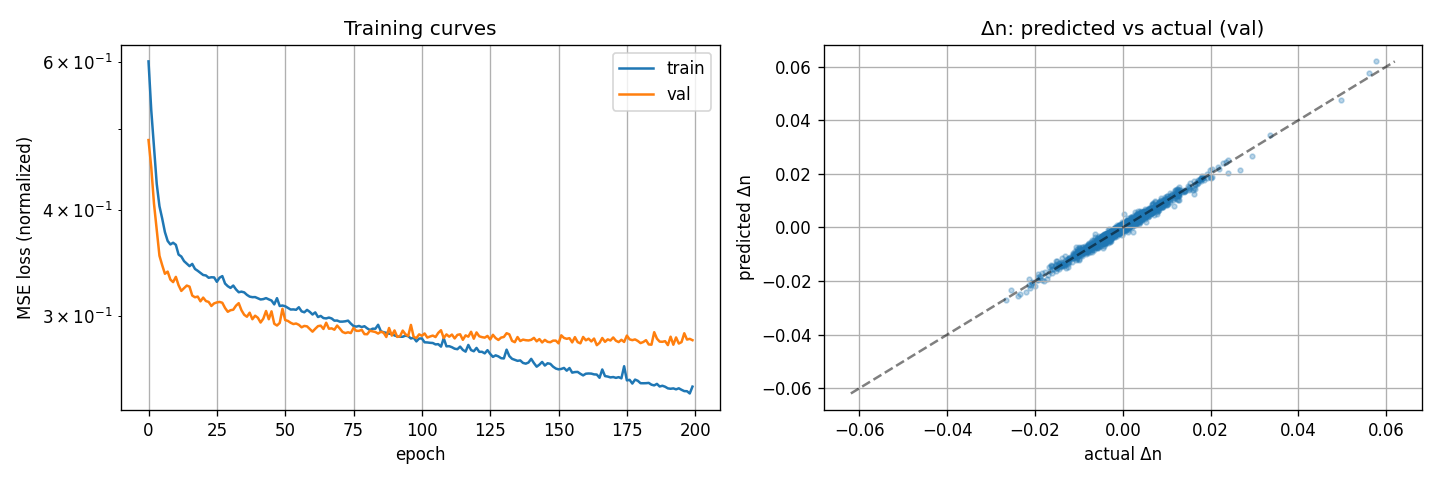
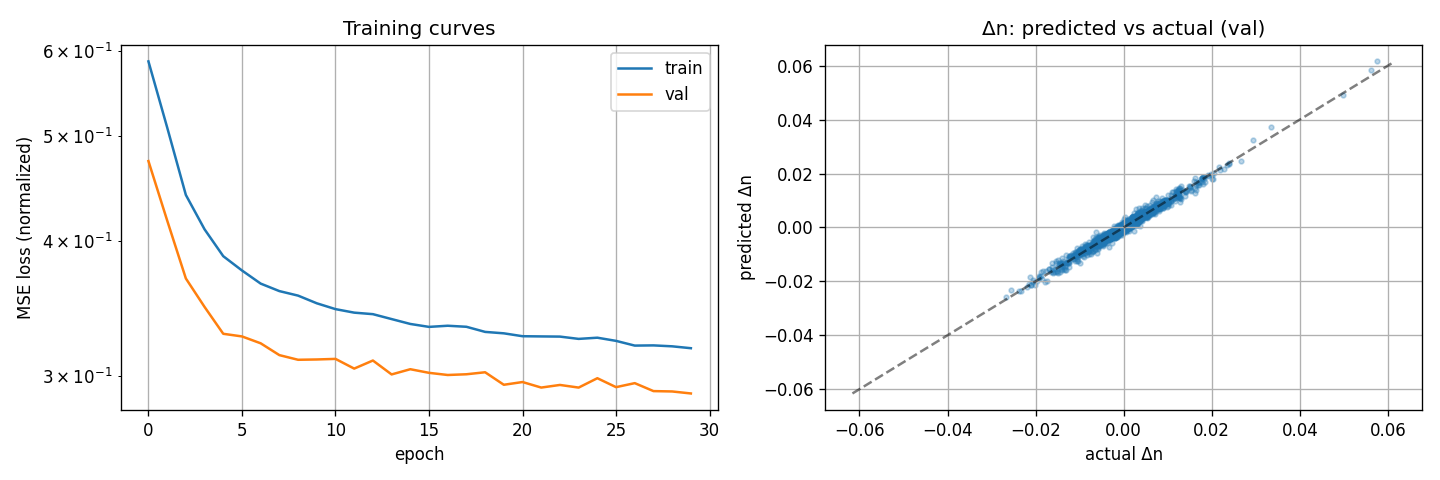
Wire concat pipeline for payload conditioning + load conditions table
- train_residual.py: auto-detect input dim (6=plain, >6=ConditionedResidualModel
  with --mode); save mode/state_dim/context_dim in checkpoint config.
- mpc_data_collector.py: MASS/COG_X env -> append [m, cog] to obs (8-dim).
- data/load_conditions.md: payload x position grid with computed MASS/COG_X.

diff --git a/mpc/train_residual.py b/mpc/train_residual.py
@@ -98,12 +98,24 @@ def train(args):
         batch_size=args.batch_size, shuffle=True,
     )
     
-    # ----- model -----
-    model = ResidualModel(
-        input_dim=6, output_dim=4,
-        hidden_dim=args.hidden, n_layers=args.layers,
-    ).to(device)
-    print(f"\nModel: {count_parameters(model)} trainable parameters")
+    # ----- model (입력 차원 자동감지: 6=상태만, >6=상태+조건[무게,CoG]) -----
+    in_dim = Xn_train_t.shape[1]
+    state_dim = 6
+    ctx_dim = in_dim - state_dim
+    if ctx_dim > 0:
+        from residual_model import ConditionedResidualModel
+        model = ConditionedResidualModel(
+            state_dim=state_dim, context_dim=ctx_dim, output_dim=4,
+            hidden_dim=args.hidden, mode=args.mode,
+        ).to(device)
+        print(f"\nConditioned model: mode={args.mode}, state={state_dim}, context={ctx_dim}")
+    else:
+        model = ResidualModel(
+            input_dim=6, output_dim=4,
+            hidden_dim=args.hidden, n_layers=args.layers,
+        ).to(device)
+        print(f"\nPlain model: input={in_dim}")
+    print(f"  {count_parameters(model)} trainable parameters")
     
     optimizer = torch.optim.Adam(model.parameters(), lr=args.lr,
                                  weight_decay=args.weight_decay)
@@ -165,8 +177,10 @@ def train(args):
         'state_dict': best_state,
         'norm': norm,
         'config': {
-            'input_dim': 6, 'output_dim': 4,
+            'input_dim': in_dim, 'output_dim': 4,
             'hidden_dim': args.hidden, 'n_layers': args.layers,
+            'state_dim': state_dim, 'context_dim': ctx_dim,
+            'mode': (args.mode if ctx_dim > 0 else None),
         }
     }, out_path)
     print(f"\nSaved best model to {out_path}")
@@ -222,6 +236,9 @@ if __name__ == "__main__":
     p.add_argument("--weight-decay", type=float, default=0.0)
     p.add_argument("--jac-reg", type=float, default=0.0,
                    help="penalty on ||d(residual)/d(state)||^2 (smoother model)")
+    p.add_argument("--mode", type=str, default="concat",
+                   choices=["concat", "branch", "film"],
+                   help="conditioned-model mode (used only when data has context dims)")
     p.add_argument("--hidden", type=int, default=64)
     p.add_argument("--layers", type=int, default=3)
     p.add_argument("--split-mode", type=str, default='time',

diff --git a/mpc/mpc_data_collector.py b/mpc/mpc_data_collector.py
@@ -38,6 +38,15 @@ OUT_NPZ        = os.environ.get(
     "OUT_NPZ", "/home/vilab/CarMaker/mpc_host/truck_dataset.npz")
 DT, Tf, N      = 0.1, 2.0, 20
 
+# --- payload context (조건화 학습용) ----------------------------------------
+# MASS, COG_X 를 둘 다 주면 obs 뒤에 [m, x_cog]를 붙여 8차원으로 기록한다.
+# (적재조건별로 값 바꿔가며 여러 세션 수집 -> ConditionedResidualModel 학습용)
+# 안 주면 기존처럼 6차원(무조건화).
+_MASS  = os.environ.get("MASS", "")     # 적재 포함 총질량 [kg]
+_COG_X = os.environ.get("COG_X", "")    # 정적 무게중심 x [m]
+COND_CTX = (_MASS != "" and _COG_X != "")
+CTX = np.array([float(_MASS), float(_COG_X)]) if COND_CTX else None
+
 # --- excitation (off by default) -------------------------------------------
 # OU-smoothed perturbation added to the applied control so the truck visits
 # OFF-nominal states (n!=0, larger steering). Without it the residual model
@@ -156,6 +165,8 @@ def main():
                         u_app = np.array([(D - D_prev) / DT, (delta - delta_prev) / DT])
                         x_next_nom = predict_next_state(x_t, u_app, kappa_func, DT)
                         obs = np.array([n, alpha, v, D_prev, delta_prev, kappa_func(s)])
+                        if COND_CTX:                       # 무게·CoG 조건 추가 -> 8차원
+                            obs = np.concatenate([obs, CTX])
                         pending = (obs, x_next_nom)
                         D_prev, delta_prev = D, delta
                         if D >= 0:

diff --git a/data/load_conditions.md b/data/load_conditions.md
@@ -1,0 +1,35 @@
+# 적재 조건표 (payload-conditioned residual 수집용)
+
+공차 기준 (TruckMaker Vehicle Data Set → Body → Info):
+- 공차 총질량 **M0 = 32000 kg**
+- 공차 CoG x **x0 = 4.330 m**
+
+계산식:
+- `MASS  = M0 + payload`
+- `COG_X = (M0*x0 + payload*x) / MASS`
+
+⚠ **TruckMaker Loads 표에 넣는 값 = 적재물(payload)** 이지 총질량이 아님.
+Loads 표: 빨강 행에 `kg=payload`, `x=위치`, `y=0`, `z=2`. (Truck Loads 섹션, x는 1~5)
+
+| Loads칸 payload | x [m] | MASS (총) | COG_X | collect.sh env |
+|:---:|:---:|:---:|:---:|:---|
+| (없음) | — | 32000 | 4.330 | `MASS=32000 COG_X=4.330` |
+| 8000  | 2.0  | 40000 | 3.864 | `MASS=40000 COG_X=3.864` |
+| 8000  | 4.33 | 40000 | 4.330 | `MASS=40000 COG_X=4.330` |
+| 8000  | 5.0  | 40000 | 4.464 | `MASS=40000 COG_X=4.464` |
+| 16000 | 2.0  | 48000 | 3.553 | `MASS=48000 COG_X=3.553` |
+| 16000 | 4.33 | 48000 | 4.330 | `MASS=48000 COG_X=4.330` |
+| 16000 | 5.0  | 48000 | 4.553 | `MASS=48000 COG_X=4.553` |
+| 24000 | 2.0  | 56000 | 3.331 | `MASS=56000 COG_X=3.331` |
+| 24000 | 4.33 | 56000 | 4.330 | `MASS=56000 COG_X=4.330` |
+| 24000 | 5.0  | 56000 | 4.617 | `MASS=56000 COG_X=4.617` |
+
+메모:
+- `x=4.33` → CoG 불변(무게만 변함, 순수 무게효과 격리). `x=2.0/5.0` → CoG 이동.
+- `x=6`은 적재함 밖(캐빈 침범) → x는 1~5만.
+- 56톤(payload 24000)은 곡선서 이탈 가능 → 안 되면 무게 낮추거나 제외.
+- 수집: 조건별로 Loads 설정 + 해당 env로 `collect.sh`, 같은 `OUT_NPZ`에 누적.
+
+## 1차 추천 (무게만, CoG 고정 x=4.33)
+`(없음)32000 → 8000@4.33 → 16000@4.33 → 24000@4.33` (COG_X 전부 4.330)
+→ 무게 조건화 작동 확인 후 x=2.0/5.0 추가.
